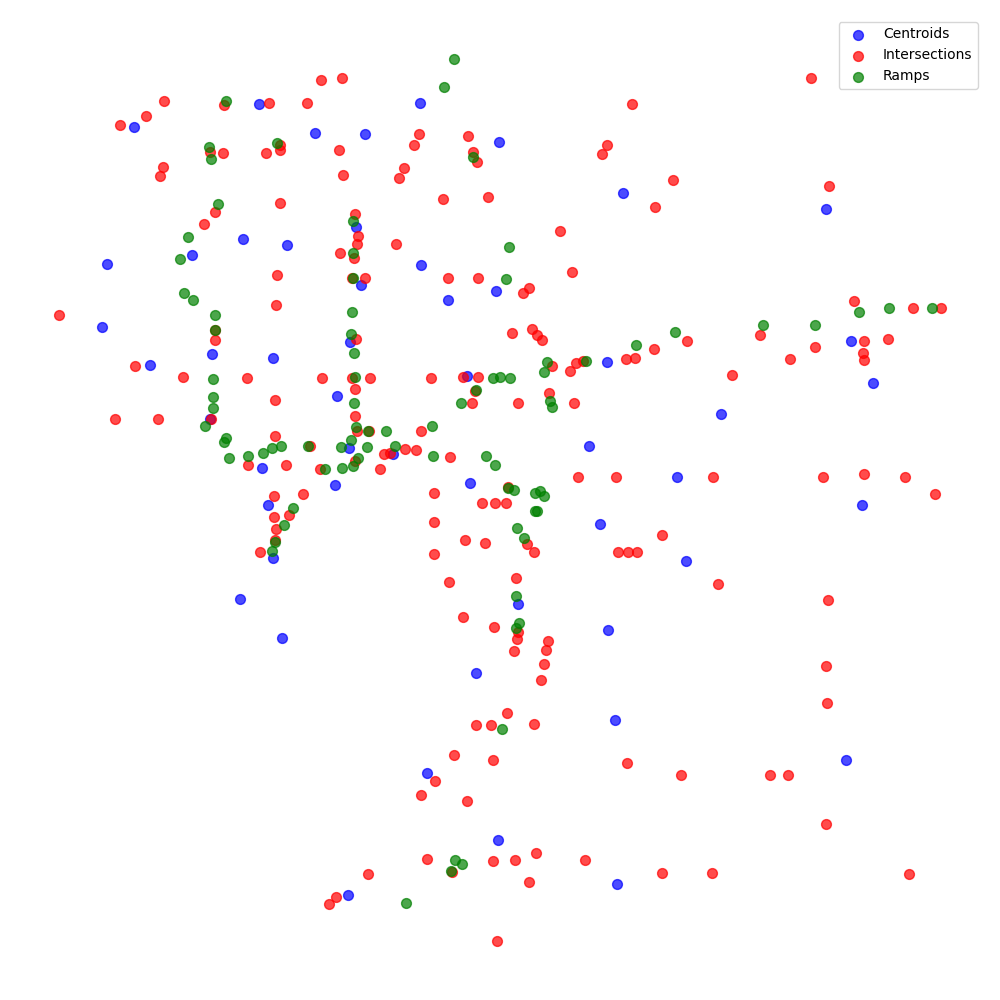
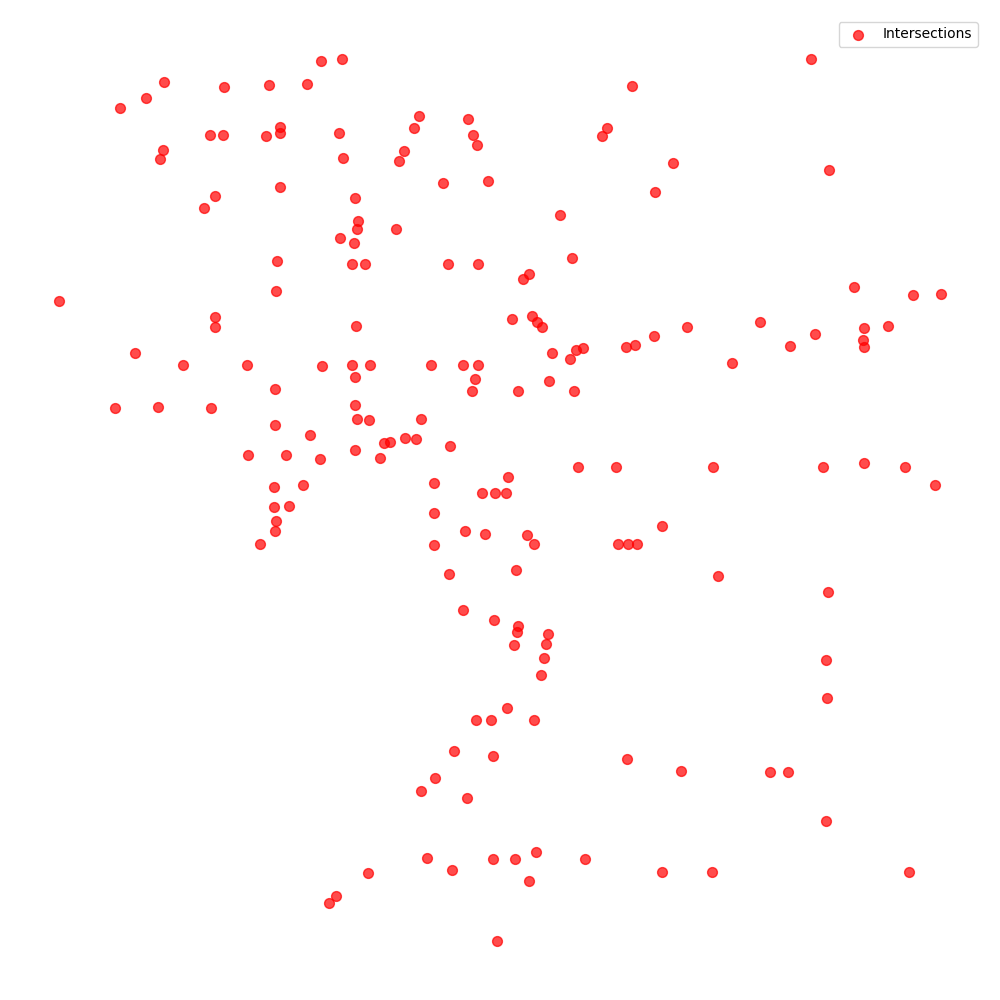
stashing changes

diff --git a/source/test.py b/source/test.py
@@ -1,0 +1,207 @@
+import geopandas as gpd
+import networkx as nx
+import matplotlib.pyplot as plt
+import os
+from shapely.geometry import Point, LineString
+import multiprocessing
+from functools import partial
+import numpy as np
+import time
+
+def load_data(routes_path, intersections_path):
+    """Load GeoJSON data and standardize CRS"""
+    routes_gdf = gpd.read_file(routes_path)
+    intersections_gdf = gpd.read_file(intersections_path)
+    
+    # Ensure both have the same CRS (coordinate reference system)
+    routes_gdf = routes_gdf.to_crs(epsg=3857)
+    intersections_gdf = intersections_gdf.to_crs(epsg=3857)
+    
+    print(f"Loaded {len(routes_gdf)} evacuation routes")
+    print(f"Loaded {len(intersections_gdf)} intersections")
+    
+    return routes_gdf, intersections_gdf
+
+def process_route_chunk(args):
+    """Process a chunk of routes and return edges with timing information"""
+    chunk_df, intersections_gdf, process_id, snap_distance = args
+    
+    edges = []
+    timing_info = []
+    edge_count = 0
+    start_time = time.time()
+    last_time = start_time
+    
+    for idx, route in chunk_df.iterrows():
+        if route.geometry.geom_type != 'LineString':
+            continue
+            
+        # Find nearest intersections to start and end points of the route
+        start_point = Point(route.geometry.coords[0])
+        end_point = Point(route.geometry.coords[-1])
+        
+        # Calculate distances to all intersections
+        start_distances = intersections_gdf.geometry.apply(lambda geom: geom.distance(start_point))
+        end_distances = intersections_gdf.geometry.apply(lambda geom: geom.distance(end_point))
+        
+        # Find closest intersections within snap distance
+        start_node = start_distances.idxmin() if start_distances.min() <= snap_distance else None
+        end_node = end_distances.idxmin() if end_distances.min() <= snap_distance else None
+        
+        # Skip if we couldn't find both nodes
+        if start_node is None or end_node is None or start_node == end_node:
+            continue
+            
+        # Add edge with minimal attributes
+        road_name = route.get('STREET', 'unnamed')  # Default to unnamed if STREET not available
+        length = route.geometry.length
+        
+        edges.append((start_node, end_node, {
+            'road_name': road_name,
+            'weight': length,
+            'geometry': route.geometry
+        }))
+        
+        edge_count += 1
+        
+        # Record timing every 10 edges
+        if edge_count % 10 == 0:
+            current_time = time.time()
+            delta = current_time - last_time
+            timing_info.append((process_id, edge_count, delta))
+            last_time = current_time
+    
+    # Record total timing for the chunk
+    total_time = time.time() - start_time
+    timing_info.append((process_id, edge_count, total_time, "total"))
+    
+    return edges, timing_info
+
+def create_graph(routes_gdf, intersections_gdf, snap_distance=50):
+    """Create a networkx graph using intersections as nodes and routes as edges with multiprocessing"""
+    G = nx.Graph()
+    start_time = time.time()
+    
+    # Add intersections as nodes
+    for idx, row in intersections_gdf.iterrows():
+        G.add_node(idx, 
+                   pos=(row.geometry.x, row.geometry.y), 
+                   node_type='intersection',
+                   geometry=row.geometry)
+    
+    # Process routes into edges using multiprocessing
+    print("Processing routes into edges with multiprocessing...")
+    
+    # Determine number of processes to use 
+    num_cores = multiprocessing.cpu_count()
+    print(f"Using {num_cores} CPU cores for multiprocessing")
+    
+    # Split routes into chunks based on index ranges instead of using numpy array_split
+    total_routes = len(routes_gdf)
+    chunk_size = total_routes // num_cores
+    chunks = []
+    
+    for i in range(num_cores):
+        start_idx = i * chunk_size
+        end_idx = (i + 1) * chunk_size if i < num_cores - 1 else total_routes
+        chunk = routes_gdf.iloc[start_idx:end_idx].copy()
+        chunks.append(chunk)
+    
+    # Prepare arguments for the process_route_chunk function
+    chunk_args = [
+        (chunk, intersections_gdf, i, snap_distance) 
+        for i, chunk in enumerate(chunks)
+    ]
+    
+    # Process chunks in parallel
+    with multiprocessing.Pool(processes=num_cores) as pool:
+        results = pool.map(process_route_chunk, chunk_args)
+    
+    # Flatten results and add edges to graph
+    all_edges = []
+    all_timing_info = []
+    
+    for edges, timing_info in results:
+        all_edges.extend(edges)
+        all_timing_info.extend(timing_info)
+    
+    G.add_edges_from(all_edges)
+    
+    # Sort and print timing information
+    all_timing_info.sort(key=lambda x: (x[0], x[1]))
+    
+    print("\nTiming Information (Process ID, Edge Count, Time in seconds):")
+    for info in all_timing_info:
+        if len(info) == 3:
+            process_id, edge_count, delta = info
+            print(f"Process {process_id}: Processed {edge_count} edges, last 10 took {delta:.4f} seconds")
+        else:
+            process_id, edge_count, total_time, _ = info
+            print(f"Process {process_id}: Total {edge_count} edges in {total_time:.4f} seconds")
+    
+    total_time = time.time() - start_time
+    print(f"\nTotal graph creation time: {total_time:.4f} seconds")
+    print(f"Created graph with {G.number_of_nodes()} nodes and {G.number_of_edges()} edges")
+    
+    return G
+
+def visualize_graph(G, routes_gdf, intersections_gdf, output_path=None):
+    """Visualize the graph with matplotlib"""
+    start_time = time.time()
+    print("Starting visualization...")
+    
+    fig, ax = plt.subplots(figsize=(45, 45))
+    
+    # Plot all routes with the same style since we're not differentiating by type
+    routes_gdf.plot(ax=ax, color='blue', linewidth=1.5, label='Routes')
+    
+    # Plot intersections
+    intersections_gdf.plot(ax=ax, color='black', markersize=5, label='Intersections')
+    
+    # Add legend
+    ax.legend()
+    
+    # Set title and labels
+    ax.set_title('Tampa Evacuation Routes and Intersections')
+    ax.set_xlabel('Longitude')
+    ax.set_ylabel('Latitude')
+    
+    # Remove axes
+    ax.set_axis_off()
+    
+    # Save if output path provided
+    if output_path:
+        plt.savefig(output_path, bbox_inches='tight', dpi=300)
+        print(f"Visualization saved to {output_path}")
+    
+    plt.close()
+    
+    total_time = time.time() - start_time
+    print(f"Visualization completed in {total_time:.4f} seconds")
+
+def main():
+    # Define data paths
+    data_dir = os.path.join(os.path.dirname(os.path.dirname(os.path.abspath(__file__))), 'data', 'LongProcessing')
+    routes_path = os.path.join(data_dir, 'Evacuation_Routes_Tampa.geojson')
+    intersections_path = os.path.join(data_dir, 'Intersection.geojson')
+    output_path = os.path.join(os.path.dirname(data_dir), 'evacuation_network.png')
+    
+    start_time = time.time()
+    print("Loading data...")
+    routes_gdf, intersections_gdf = load_data(routes_path, intersections_path)
+    loading_time = time.time() - start_time
+    print(f"Data loading completed in {loading_time:.4f} seconds")
+    
+    print("Creating graph...")
+    G = create_graph(routes_gdf, intersections_gdf)
+    
+    print("Visualizing graph...")
+    visualize_graph(G, routes_gdf, intersections_gdf, output_path)
+    
+    total_time = time.time() - start_time
+    print(f"Total execution time: {total_time:.4f} seconds")
+    print("Done!")
+    return G
+
+if __name__ == "__main__":
+    G = main()

diff --git a/source/create_graph.py b/source/create_graph.py
@@ -13,27 +13,29 @@ def create_graph(centroids_gdf, routes_gdf, merged_nodes_gdf, route_lines_gdf, r
     G = nx.DiGraph()  # Directed graph
 
     # Add nodes for centroids (Origin Nodes)
-    for idx, row in centroids_gdf.iterrows():
-        G.add_node(row['ZipCode'], pos=(row.geometry.x, row.geometry.y), type='origin')
+    # for idx, row in centroids_gdf.iterrows():
+    #     G.add_node(row['ZipCode'], pos=(row.geometry.x, row.geometry.y), type='origin')
 
     # Add nodes for intersections (Intersection Nodes)
     for idx, row in trimmed_intersections_gdf.iterrows():
         G.add_node(f"intersection_{idx}", pos=(row.geometry.x, row.geometry.y), type='intersection')
 
     # Add nodes for merged ramps (Destination Nodes)
-    for idx, row in merged_nodes_gdf.iterrows():
-        G.add_node(f"ramp_{idx}", pos=(row.geometry.x, row.geometry.y), type='destination')
+    # for idx, row in merged_nodes_gdf.iterrows():
+    #     G.add_node(f"ramp_{idx}", pos=(row.geometry.x, row.geometry.y), type='destination')
 
     # # Add edges for the shortest paths to routes
-    # for idx, line in route_lines_gdf.iterrows():
-    #     start = (line['geometry'].coords[0][0], line['geometry'].coords[0][1])
-    #     end = (line['geometry'].coords[1][0], line['geometry'].coords[1][1])
-    #     road_type = line['road_type']  # Assuming 'road_type' column exists
-    #     if road_type not in road_attributes:
-    #         raise ValueError(f"Invalid road type: {road_type}")
-    #     attributes = road_attributes[road_type]
-    #     travel_time = line['geometry'].length / attributes['speed_limit']
-    #     G.add_edge(start, end, weight=travel_time, capacity=attributes['capacity'], distance=line['geometry'].length, road_type=road_type)
+    print(route_lines_gdf.head())
+    for idx, line in route_lines_gdf.iterrows():
+        print(line)
+        # start = (line['geometry'].coords[0][0], line['geometry'].coords[0][1])
+        # end = (line['geometry'].coords[1][0], line['geometry'].coords[1][1])
+        # road_type = line['road_type']  # Assuming 'road_type' column exists
+        # if road_type not in road_attributes:
+        #     raise ValueError(f"Invalid road type: {road_type}")
+        # attributes = road_attributes[road_type]
+        # travel_time = line['geometry'].length / attributes['speed_limit']
+        # G.add_edge(start, end, weight=travel_time, capacity=attributes['capacity'], distance=line['geometry'].length, road_type=road_type)
 
     # # Add edges for the shortest paths to ramps
     # for idx, line in ramp_lines_gdf.iterrows():
